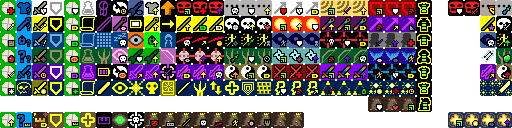
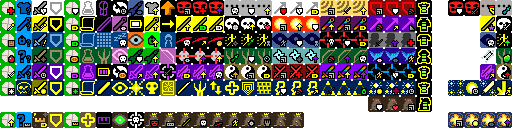
v3.0.0: Add triage and enduring light talents
* refactored Combo Leap to not require an actual target
* Moved added Divine Advent and Limit Break talent icons
* extracted some common logic to guiding light

Changed region(s): [[0.875, 0.625, 1.0, 0.75]]

diff --git a/core/src/main/java/com/zrp200/rkpd2/actors/buffs/Combo.java b/core/src/main/java/com/zrp200/rkpd2/actors/buffs/Combo.java
@@ -549,10 +549,7 @@ public class Combo extends Buff implements ActionIndicator.Action {
 		@Override
 		protected void onInvalid(int cell) {
 			if(cell == -1) return;
-			if(target.rooted) {
-				PixelScene.shake( 1, 1f );
-			}
-			GLog.w(Messages.get(Combo.class, "bad_target"));
+			Leap.onInvalid();
 		}
 
 		@Override
@@ -566,38 +563,50 @@ public class Combo extends Buff implements ActionIndicator.Action {
 		}
 	}
 	public interface Leap extends Callback {
+
+		static int findLeapPos(Char target, int dest, int leapDistance) {
+			return findLeapPos(target, new Char() {{pos = dest;}}, leapDistance, false);
+		}
+
 		static int findLeapPos(Char target, Char enemy, int leapDistance) {
 			if (enemy != null
 					&& enemy.alignment != Char.Alignment.ALLY
 					&& enemy != target
 					&& Dungeon.level.heroFOV[enemy.pos]
 					&& !target.isCharmedBy(enemy)) {
-				if (target.canAttack(enemy)) {
-					return target.pos;
-				} else if (!target.rooted && leapDistance > 0) {
-					// friendlier version of combo leap that doesn't require actually colliding with the target
-					// as a note, shattered would force the final position to be adjacent to the target
-					// this behavior isn't retained by this implementation
+				return findLeapPos(target, enemy, leapDistance, true);
+			}
+			return -1;
+		}
 
-					// fixme really this should not be using auto-aim but its own custom logic,
-					//  as it is attempting to auto-aim to an illegal position (the enemy pos),
-					//  which means that some tiles may be passed over when the hero has increased attack range.
-					//  instead, it should attempt to target the leap tile directly.
+		static int findLeapPos(Char target, Char enemy, int leapDistance, boolean willAttack) {
+			if (willAttack ? target.canAttack(enemy) : Dungeon.level.adjacent(target.pos, enemy.pos)) {
+				return target.pos;
+			} else if (!target.rooted && leapDistance > 0) {
+				// friendlier version of combo leap that doesn't require actually colliding with the target
+				// as a note, shattered would force the final position to be adjacent to the target
+				// this behavior isn't retained by this implementation
 
-					int to = QuickSlotButton.autoAim(enemy);
+				// fixme really this should not be using auto-aim but its own custom logic,
+				//  as it is attempting to auto-aim to an illegal position (the enemy pos),
+				//  which means that some tiles may be passed over when the hero has increased attack range.
+				//  instead, it should attempt to target the leap tile directly.
 
-					Ballistica b = new Ballistica(target.pos, to == -1 ? enemy.pos : to, Ballistica.PROJECTILE);
+				int to = QuickSlotButton.autoAim(enemy);
 
-					int leapPos;
-                    do {
-                        leapPos = b.path.get(--b.dist);
-                        if (b.dist == 0) return -1;
-                    } while (
-                            !Dungeon.level.passable[leapPos] ||
-									(!target.flying && Dungeon.level.avoid[leapPos]) ||
-									// ballistica's dist isn't a good measure of distance, so it needs to be checked per tile
-									Dungeon.level.distance(target.pos, leapPos) > leapDistance
-					);
+                Ballistica b = new Ballistica(target.pos, to == -1 ? enemy.pos : to, Ballistica.PROJECTILE);
+
+                int leapPos;
+                do {
+                    leapPos = b.path.get(--b.dist);
+                    if (b.dist == 0) return -1;
+                } while (
+                        !Dungeon.level.passable[leapPos] ||
+                                (!target.flying && Dungeon.level.avoid[leapPos]) ||
+                                // ballistica's dist isn't a good measure of distance, so it needs to be checked per tile
+                                Dungeon.level.distance(target.pos, leapPos) > leapDistance
+                );
+                if (willAttack) {
                     int initialPos = target.pos;
                     try {
                         target.pos = leapPos;
@@ -605,12 +614,14 @@ public class Combo extends Buff implements ActionIndicator.Action {
                     } finally {
                         target.pos = initialPos;
                     }
-				}
+                } else if (Dungeon.level.adjacent(leapPos, enemy.pos)) {
+                    return leapPos;
+                }
 			}
 			return -1;
 		}
 
-		static void execute(Hero target, Char enemy, int leapPos, Leap doAttack) {
+		static void execute(Hero target, int leapPos, Leap onLeapComplete) {
 			((Hero)target).busy();
 			if(leapPos != target.pos) {
 				target.sprite.jump(target.pos, leapPos, () -> {
@@ -618,11 +629,21 @@ public class Combo extends Buff implements ActionIndicator.Action {
 					Dungeon.level.occupyCell(target);
 					Dungeon.observe();
 					GameScene.updateFog();
-					target.sprite.attack(enemy.pos, doAttack);
+					onLeapComplete.call();
 				});
 			} else {
-				target.sprite.attack(enemy.pos, doAttack);
+				onLeapComplete.call();
 			}
+		}
+		static void execute(Hero target, Char enemy, int leapPos, Leap doAttack) {
+			execute(target, leapPos, () -> target.sprite.attack(enemy.pos, doAttack));
+		}
+
+		static void onInvalid() {
+			if (hero.rooted) {
+				PixelScene.shake(1, 1);
+			}
+			GLog.w(Messages.get(Combo.class, "bad_target"));
 		}
 	}
 }

diff --git a/core/src/main/java/com/zrp200/rkpd2/actors/hero/spells/WallOfLight.java b/core/src/main/java/com/zrp200/rkpd2/actors/hero/spells/WallOfLight.java
@@ -30,6 +30,7 @@ import com.zrp200.rkpd2.actors.Actor;
 import com.zrp200.rkpd2.actors.Char;
 import com.zrp200.rkpd2.actors.blobs.Blob;
 import com.zrp200.rkpd2.actors.buffs.Buff;
+import com.zrp200.rkpd2.actors.buffs.Combo;
 import com.zrp200.rkpd2.actors.buffs.Paralysis;
 import com.zrp200.rkpd2.actors.hero.Hero;
 import com.zrp200.rkpd2.actors.hero.Talent;
@@ -45,6 +46,7 @@ import com.zrp200.rkpd2.mechanics.Ballistica;
 import com.zrp200.rkpd2.messages.Messages;
 import com.zrp200.rkpd2.scenes.CellSelector;
 import com.zrp200.rkpd2.scenes.GameScene;
+import com.zrp200.rkpd2.scenes.PixelScene;
 import com.zrp200.rkpd2.tiles.DungeonTilemap;
 import com.zrp200.rkpd2.ui.HeroIcon;
 import com.zrp200.rkpd2.ui.Icons;
@@ -304,6 +306,19 @@ public class WallOfLight extends TargetedClericSpell {
 			return;
 		}
 
+		int leapPos = hero.pos;
+		if (hero.hasTalent(Talent.TRIAGE)) {
+			leapPos = Combo.Leap.findLeapPos(hero, target, hero.pointsInTalent(Talent.TRIAGE));
+			if (leapPos == -1) {
+				Combo.Leap.onInvalid();
+				return;
+			}
+		}
+		boolean force = hero.pos != leapPos;
+		Combo.Leap.execute(hero, leapPos, () -> doCast(tome, hero, target, force));
+	}
+
+	private void doCast(HolyTome tome, Hero hero, int target, boolean force) {
 		int closest = hero.pos;
 		int closestIdx = -1;
 
@@ -379,7 +394,7 @@ public class WallOfLight extends TargetedClericSpell {
 		int knockBackDir = PathFinder.CIRCLE8[closestIdx];
 
 		//if all 3 tiles infront of Paladin are blocked, assume cast was in error and cancel
-		if (Dungeon.level.solid[closest]
+		if (!force && Dungeon.level.solid[closest]
 				&& Dungeon.level.solid[hero.pos + PathFinder.CIRCLE8[(closestIdx+1)%8]]
 				&& Dungeon.level.solid[hero.pos + PathFinder.CIRCLE8[(closestIdx+7)%8]]){
 			GLog.w(Messages.get(this, "invalid_target"));

diff --git a/core/src/main/java/com/zrp200/rkpd2/items/wands/Wand.java b/core/src/main/java/com/zrp200/rkpd2/items/wands/Wand.java
@@ -46,7 +46,6 @@ import com.zrp200.rkpd2.actors.hero.abilities.mage.WildMagic;
 import com.zrp200.rkpd2.actors.hero.spells.DivineSense;
 import com.zrp200.rkpd2.actors.hero.spells.GuidingLight;
 import com.zrp200.rkpd2.effects.Flare;
-import com.zrp200.rkpd2.effects.FloatingText;
 import com.zrp200.rkpd2.effects.MagicMissile;
 import com.zrp200.rkpd2.items.Item;
 import com.zrp200.rkpd2.items.artifacts.TalismanOfForesight;
@@ -62,7 +61,6 @@ import com.zrp200.rkpd2.mechanics.Ballistica;
 import com.zrp200.rkpd2.messages.Messages;
 import com.zrp200.rkpd2.scenes.CellSelector;
 import com.zrp200.rkpd2.scenes.GameScene;
-import com.zrp200.rkpd2.sprites.CharSprite;
 import com.zrp200.rkpd2.sprites.ItemSprite;
 import com.zrp200.rkpd2.sprites.ItemSpriteSheet;
 import com.zrp200.rkpd2.ui.QuickSlotButton;
@@ -240,10 +238,8 @@ public abstract class Wand extends Item {
 
 		SoulMark.process(target,wandLevel,chargesUsed,delay);
 		if (Dungeon.hero.hasTalent(Talent.DEADLY_FOLLOWUP)) Buff.prolong(Dungeon.hero, Talent.DeadlyFollowupTracker.class, 5f).object = target.id();
-		if (Dungeon.hero.subClass == HeroSubClass.PRIEST && target.buff(GuidingLight.Illuminated.class) != null) {
-			target.buff(GuidingLight.Illuminated.class).detach();
-			target.damage(Dungeon.hero.lvl, GuidingLight.INSTANCE);
-		}
+		GuidingLight.Illuminated.proc(target);
+
 
 		if (target.alignment == Char.Alignment.ENEMY) everythingIsAWeapon: {
 			int points = Dungeon.hero.pointsInTalent(Talent.EVERYTHING_IS_A_WEAPON);

diff --git a/core/src/main/java/com/zrp200/rkpd2/actors/hero/Talent.java b/core/src/main/java/com/zrp200/rkpd2/actors/hero/Talent.java
@@ -202,9 +202,9 @@ public enum Talent {
 	//Cleric T3
 	CLEANSE(169, 3), LIGHT_READING(170, 3),
 	//Priest T3
-	HOLY_LANCE(171, 3), HALLOWED_GROUND(172, 3), MNEMONIC_PRAYER(173, 3), DIVINE_ADVENT(190, 3),
+	HOLY_LANCE(171, 3), HALLOWED_GROUND(172, 3), MNEMONIC_PRAYER(173, 3), DIVINE_ADVENT(188, 3), ENDURING_LIGHT(189, 3),
 	//Paladin T3
-	LAY_ON_HANDS(174, 3), AURA_OF_PROTECTION(175, 3), WALL_OF_LIGHT(176, 3), LIMIT_BREAK(191, 3),
+	LAY_ON_HANDS(174, 3), AURA_OF_PROTECTION(175, 3), WALL_OF_LIGHT(176, 3), LIMIT_BREAK(190, 3), TRIAGE(191, 3),
 	//Ascended Form T4
 	DIVINE_INTERVENTION(177, 4), JUDGEMENT(178, 4), FLASH(179, 4),
 	//Trinity T4
@@ -1535,10 +1535,10 @@ public enum Talent {
 				Collections.addAll(tierTalents, UNENCUMBERED_SPIRIT, MONASTIC_VIGOR, COMBINED_ENERGY, MONASTIC_MIGHT);
 				break;
 			case PRIEST:
-				Collections.addAll(tierTalents, HOLY_LANCE, HALLOWED_GROUND, MNEMONIC_PRAYER, DIVINE_ADVENT);
+				Collections.addAll(tierTalents, HOLY_LANCE, HALLOWED_GROUND, MNEMONIC_PRAYER, DIVINE_ADVENT, ENDURING_LIGHT);
 				break;
 			case PALADIN:
-				Collections.addAll(tierTalents, LAY_ON_HANDS, AURA_OF_PROTECTION, WALL_OF_LIGHT, LIMIT_BREAK);
+				Collections.addAll(tierTalents, LAY_ON_HANDS, AURA_OF_PROTECTION, WALL_OF_LIGHT, LIMIT_BREAK, TRIAGE);
 				break;
 			case KING: // this should be *lovely*
 				Collections.addAll(tierTalents, RK_BERSERKER, RK_BATTLEMAGE, RK_ASSASSIN, RK_SNIPER, RK_GLADIATOR, RK_WARLOCK, RK_FREERUNNER, RK_WARDEN);

diff --git a/core/src/main/java/com/zrp200/rkpd2/actors/hero/spells/Smite.java b/core/src/main/java/com/zrp200/rkpd2/actors/hero/spells/Smite.java
@@ -33,6 +33,7 @@ import com.zrp200.rkpd2.actors.buffs.Combo;
 import com.zrp200.rkpd2.actors.buffs.FlavourBuff;
 import com.zrp200.rkpd2.actors.hero.Hero;
 import com.zrp200.rkpd2.actors.hero.HeroSubClass;
+import com.zrp200.rkpd2.actors.hero.Talent;
 import com.zrp200.rkpd2.items.artifacts.HolyTome;
 import com.zrp200.rkpd2.items.weapon.Weapon;
 import com.zrp200.rkpd2.mechanics.Ballistica;
@@ -109,12 +110,13 @@ public class Smite extends TargetedClericSpell {
 
 		//we apply here because of projecting
 		SmiteTracker tracker = Buff.affect(hero, SmiteTracker.class);
-		if (hero.isCharmedBy(enemy) || !level.heroFOV[target] || !hero.canAttack(enemy)) {
+		int leapPos = Combo.Leap.findLeapPos(hero, enemy, hero.pointsInTalent(Talent.TRIAGE));
+		if (leapPos == -1) {
 			GLog.w(Messages.get(this, "invalid_enemy"));
 			tracker.detach();
 			return;
 		}
-		hero.sprite.attack(enemy.pos, () -> {
+		Combo.Leap.execute(hero, enemy, leapPos, () -> {
 			doSmite(tome, hero, enemy, 1);
 			tracker.detach();
 			hero.spendAndNext(hero.attackDelay());
@@ -204,7 +206,7 @@ public class Smite extends TargetedClericSpell {
 		@Override
 		public void onCast(HolyTome tome, Hero hero) {
 			Buff.affect(hero, OmniSmiteTracker.class);
-			int range = (int)SpellEmpower.left();
+			int range = Math.max(hero.pointsInTalent(Talent.TRIAGE), (int)SpellEmpower.left());
 			try {
 				HashMap<Char, Integer> validTargets = new HashMap<>();
 				int minDist = Integer.MAX_VALUE;

diff --git a/core/src/main/java/com/zrp200/rkpd2/actors/hero/spells/LayOnHands.java b/core/src/main/java/com/zrp200/rkpd2/actors/hero/spells/LayOnHands.java
@@ -27,12 +27,14 @@ import com.zrp200.rkpd2.actors.Actor;
 import com.zrp200.rkpd2.actors.Char;
 import com.zrp200.rkpd2.actors.buffs.Barrier;
 import com.zrp200.rkpd2.actors.buffs.Buff;
+import com.zrp200.rkpd2.actors.buffs.Combo;
 import com.zrp200.rkpd2.actors.hero.Hero;
 import com.zrp200.rkpd2.actors.hero.Talent;
 import com.zrp200.rkpd2.actors.hero.abilities.cleric.PowerOfMany;
 import com.zrp200.rkpd2.effects.FloatingText;
 import com.zrp200.rkpd2.items.artifacts.HolyTome;
 import com.zrp200.rkpd2.messages.Messages;
+import com.zrp200.rkpd2.scenes.PixelScene;
 import com.zrp200.rkpd2.sprites.CharSprite;
 import com.zrp200.rkpd2.ui.HeroIcon;
 import com.zrp200.rkpd2.utils.GLog;
@@ -93,6 +95,16 @@ public class LayOnHands extends TargetedClericSpell {
 		}
 
 		if (!multicast && Dungeon.level.distance(hero.pos, target) > 1){
+			if (hero.hasTalent(Talent.TRIAGE) && Actor.findChar(target) != null) {
+				int leapPos = Combo.Leap.findLeapPos(hero, target, hero.pointsInTalent(Talent.TRIAGE));
+				if (leapPos == -1) {
+					Combo.Leap.onInvalid();
+					return;
+				}
+				Combo.Leap.execute(hero, leapPos, () -> onTargetSelected(tome, hero, target));
+				return;
+			}
+
 			GLog.w(Messages.get(this, "invalid_target"));
 			return;
 		}

diff --git a/core/src/main/java/com/zrp200/rkpd2/actors/hero/spells/GuidingLight.java b/core/src/main/java/com/zrp200/rkpd2/actors/hero/spells/GuidingLight.java
@@ -30,6 +30,7 @@ import com.zrp200.rkpd2.actors.buffs.FlavourBuff;
 import com.zrp200.rkpd2.actors.hero.Hero;
 import com.zrp200.rkpd2.actors.hero.HeroClass;
 import com.zrp200.rkpd2.actors.hero.HeroSubClass;
+import com.zrp200.rkpd2.actors.hero.Talent;
 import com.zrp200.rkpd2.effects.MagicMissile;
 import com.zrp200.rkpd2.effects.particles.ShadowParticle;
 import com.zrp200.rkpd2.items.artifacts.HolyTome;
@@ -170,6 +171,21 @@ public class GuidingLight extends TargetedClericSpell {
 
 		{
 			type = buffType.NEGATIVE;
+		}
+
+		public static void proc(Char target) {
+			if (Dungeon.hero.subClass == HeroSubClass.PRIEST && target.buff(Illuminated.class) != null) {
+				target.buff(Illuminated.class).detach();
+				target.damage(Dungeon.hero.lvl, INSTANCE);
+			}
+			checkReapply(target);
+		}
+		public static void checkReapply(Char target) {
+			if (Dungeon.hero.hasTalent(Talent.ENDURING_LIGHT) && target.buff(WasIlluminatedTracker.class) != null) {
+				if (Random.Int(3) < Dungeon.hero.pointsInTalent(Talent.ENDURING_LIGHT)) {
+					Buff.affect(target, Illuminated.class);
+				}
+			}
 		}
 
 		@Override

diff --git a/core/src/main/java/com/zrp200/rkpd2/items/artifacts/Artifact.java b/core/src/main/java/com/zrp200/rkpd2/items/artifacts/Artifact.java
@@ -148,10 +148,7 @@ public class Artifact extends KindofMisc {
 	}
 
 	public static void artifactProc(Char target, int artifLevel, int chargesUsed){
-		if (Dungeon.hero.subClass == HeroSubClass.PRIEST && target.buff(GuidingLight.Illuminated.class) != null) {
-			target.buff(GuidingLight.Illuminated.class).detach();
-			target.damage(Dungeon.hero.lvl, GuidingLight.INSTANCE);
-		}
+		GuidingLight.Illuminated.proc(target);
 
 		if (target.alignment != Char.Alignment.ALLY
 				&& Dungeon.hero.heroClass != HeroClass.CLERIC

diff --git a/core/src/main/java/com/zrp200/rkpd2/actors/Char.java b/core/src/main/java/com/zrp200/rkpd2/actors/Char.java
@@ -441,6 +441,7 @@ public abstract class Char extends Actor {
 					enemy.damage(Dungeon.hero.lvl, GuidingLight.INSTANCE);
 				}
 			}
+			GuidingLight.Illuminated.checkReapply(enemy);
 
 			Berserk berserk = buff(Berserk.class);
 			if (berserk != null) dmg = berserk.damageFactor((int)dmg);
